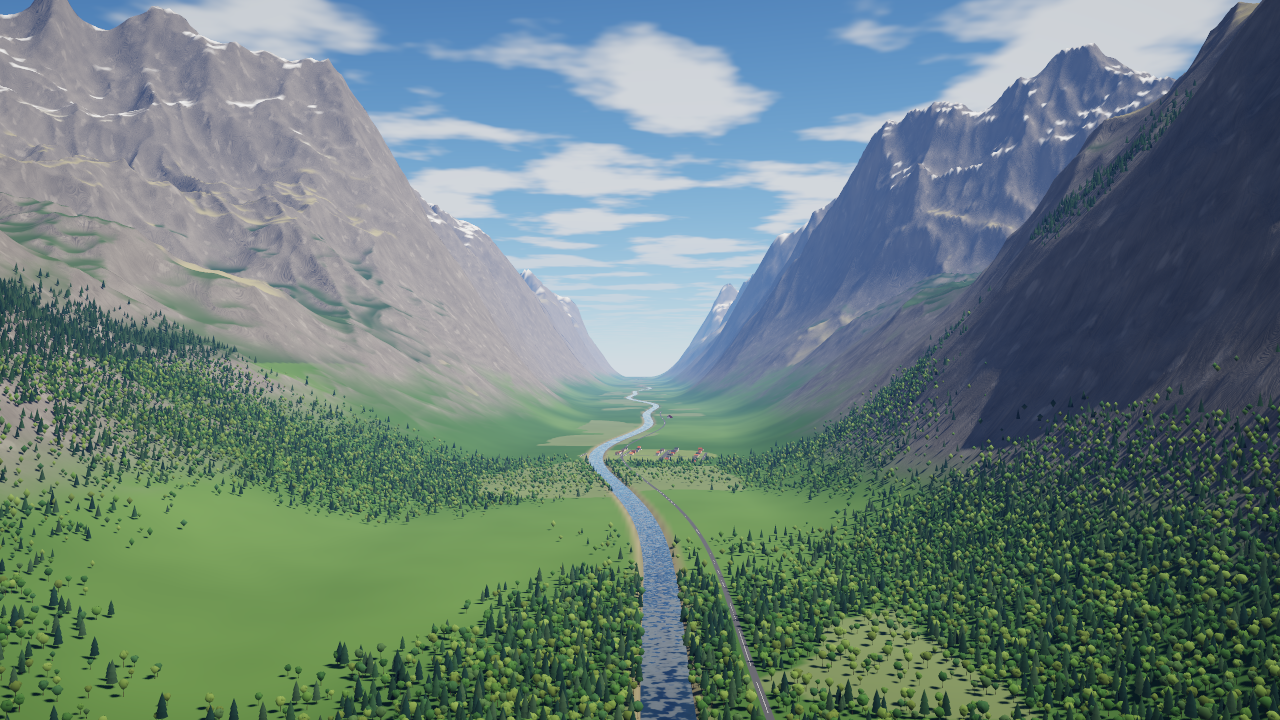
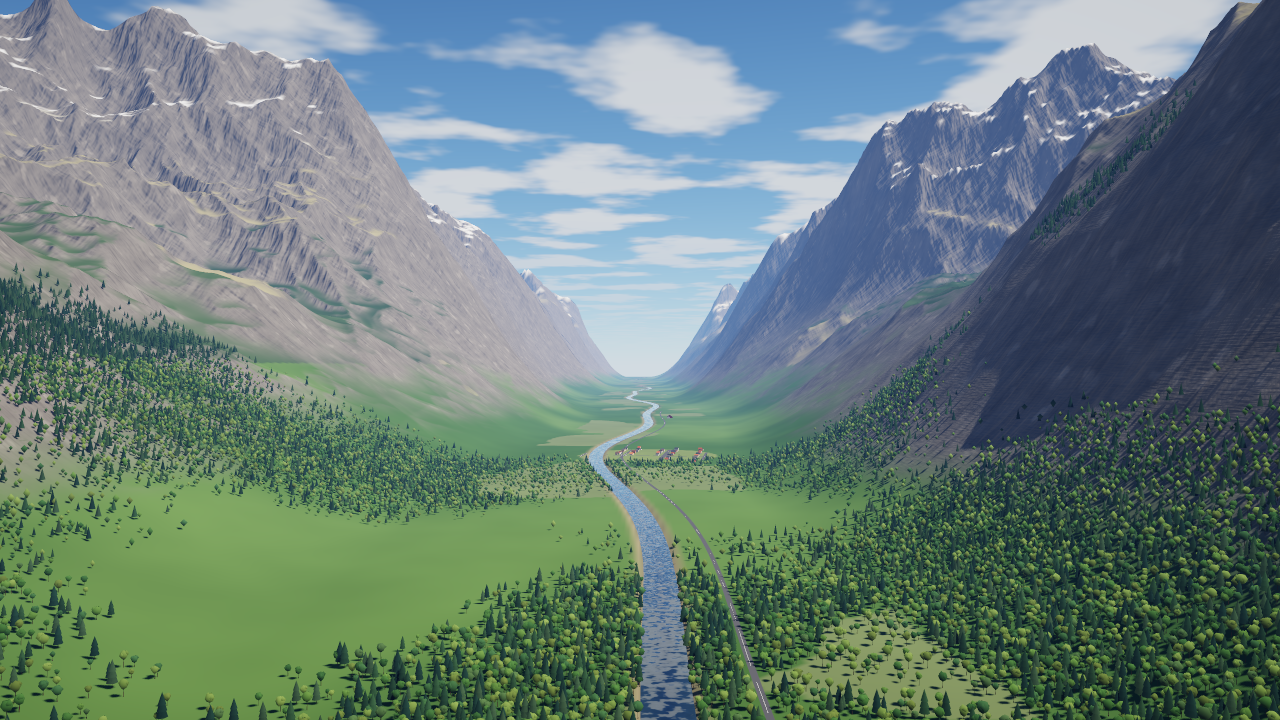
[P1.3] Row relief, triplanar rock (buttresses, streaks, ledges), fix macOS test type-check timeout
Art review round 11: 6.00 (logged). 42d95de failed CI: a Metal-only test's array literal timed out
the type checker on macOS; split into plain statements.

Claude-Session: https://claude.ai/code/session_01LuDJ4arcj2AiLQbMi9mk9u

diff --git a/Packages/SkyforgeKit/Sources/SFRender/Shaders/WorldShaders.swift b/Packages/SkyforgeKit/Sources/SFRender/Shaders/WorldShaders.swift
@@ -216,6 +216,24 @@ public enum WorldShaders {
         float k = min(1.0, max(0.0, (weight - (t - band * 0.5)) / band));
         return k * k * (3.0 - 2.0 * k);
     }
+    static float2 fieldRowTilt(float x, float y, float footprint, uint seed, bool autumn) {
+        float c = cos(0.35f), s = sin(0.35f);
+        float wu = fp_noise(x / 420.0 + 7.3, y / 420.0, seed ^ 0x51u) * 22.0;
+        float wv = fp_noise(x / 420.0, y / 420.0 - 9.1, seed ^ 0xA3u) * 22.0;
+        float u = c * x + s * y + wu, v = -s * x + c * y + wv;
+        uint h = fp_hash(int(floor(u / 110.0)), int(floor(v / 170.0)), seed);
+        uint idx = autumn ? h % 6u : h % 7u;
+        bool pasture = !autumn && (idx == 0u || idx == 5u);
+        bool ploughed = autumn ? idx == 1u : idx == 3u;
+        float spacing = pasture ? 14.0 : 3.0 + 3.0 * fp_unit(h >> 8);
+        bool alongU = ((h >> 24) & 1u) == 0u;
+        float coord = alongU ? u : v;
+        float fade = min(1.0, max(0.0, 1.0 - max(0.05, footprint) * 4.0 / spacing));
+        float strength = pasture ? 0.03 : (ploughed ? 0.20 : 0.10);
+        float slope = cos(coord / spacing * 6.2831853) * strength * fade;
+        float2 axis = alongU ? float2(c, s) : float2(-s, c);
+        return -axis * slope;
+    }
     static float3 fieldFactor(float x, float y, float footprint, uint seed, bool autumn) {
         const float PU = 110.0, PV = 170.0, HW = 1.2;
         float c = cos(0.35f), s = sin(0.35f);
@@ -359,6 +377,8 @@ public enum WorldShaders {
             if (fieldCov > 0.0) {
                 float3 f = fieldFactor(fieldW.x, fieldW.y, fieldFp, uint(u.ambientGround.w), u.skyHorizon.w > 1.5);
                 albedo *= 1.0 + (f - 1.0) * fieldCov;
+                float2 rt = fieldRowTilt(fieldW.x, fieldW.y, fieldFp, uint(u.ambientGround.w), u.skyHorizon.w > 1.5) * fieldCov;
+                n = normalize(n + float3(rt, 0.0));
             }
         }
         if (m == 7.0 && dist < (in.material == 8.0 ? 350.0 : 1400.0)) {
@@ -380,28 +400,38 @@ public enum WorldShaders {
             // Steep ground: fall-line gullies, rock tone variation, scrub and scree (as SFPreview), each
             // octave faded by pixel footprint so big slopes keep detail far away.
             float steep = smoothstep(0.9, 0.7, n.z);
-            float2 w = fieldW;      // true region metres: rotated gully coordinates must not jump at the 4 km wrap
+            float2 w = fieldW;      // true region metres (no jump at the 4 km noise wrap)
             float2 hz = n.xy; float hl = length(hz);
             float2 fall = hl > 1e-4 ? hz / hl : float2(1, 0), perp = float2(-fall.y, fall.x);
-            float along = dot(fall, w), across = dot(perp, w);
-            float gw = saturate(1.0 - fieldFp * 2.5 / 16.0) * steep;
+            // Triplanar on the vertical planes (horizontal axis × height), rotation-free (no wood-grain swirl).
+            float wz = in.rel.z + u.cameraLocal.z;
+            float ax = abs(n.x), ay = abs(n.y), asum = max(1e-3, ax + ay);
+            #define TRI(ah, bv, off, dh, dz) ((ax * groundNoise(float2((w.y + (dh)) + (off) * (ah), (wz + (dz)) * (ah) / (bv)), ah) + \
+                                              ay * groundNoise(float2((w.x + (dh)) - (off) * (ah), (wz + (dz)) * (ah) / (bv) - 7.0 * (ah)), ah)) / asum)
+            float gw = saturate(1.0 - fieldFp * 2.5 / 14.0) * steep;
             if (gw > 0.0) {
-                float g = groundNoise(float2(across, along * 0.2) + 51.0, 16.0);
-                float gp = groundNoise(float2(across + 1.5, along * 0.2) + 51.0, 16.0);
-                float dg = (gp - g) / 1.5 * 16.0;
+                float g = TRI(14.0, 70.0, 51.0, 0.0, 0.0), gp = TRI(14.0, 70.0, 51.0, 1.5, 0.0);
+                float dg = (gp - g) / 1.5 * 14.0;
                 n = normalize(n + float3(perp * (-dg * 0.35 * gw), 0.0));
                 albedo *= 1.0 - 0.28 * max(0.0, -g) * gw;
             }
+            float bw = saturate(1.0 - fieldFp * 2.5 / 45.0) * steep;
+            if (bw > 0.0) {
+                float b0 = TRI(45.0, 160.0, 91.0, 0.0, 0.0), b1 = TRI(45.0, 160.0, 91.0, 4.0, 0.0);
+                float db = (b1 - b0) / 4.0 * 45.0;
+                n = normalize(n + float3(perp * (-db * 0.45 * bw), 0.0));
+                float streak = TRI(9.0, 220.0, -41.0, 0.0, 0.0), ledge = TRI(320.0, 28.0, 13.0, 0.0, 0.0);
+                albedo *= (1.0 - 0.22 * max(0.0, streak) * bw) * (1.0 + 0.12 * max(0.0, ledge) * bw) * (1.0 - 0.10 * max(0.0, -b0) * bw);
+            }
             float cw = saturate(1.0 - fieldFp * 2.5 / 4.0) * steep;
             if (cw > 0.0) {
-                float cr = groundNoise(float2(across, along * 0.4) - 19.0, 4.0);
-                float crp = groundNoise(float2(across + 0.5, along * 0.4) - 19.0, 4.0);
-                float ld = groundNoise(float2(across * 0.14, along) + 7.0, 4.0);
-                float ldp = groundNoise(float2(across * 0.14, along + 0.5) + 7.0, 4.0);
-                float dc = (crp - cr) / 0.5 * 4.0, dl = (ldp - ld) / 0.5 * 4.0;
-                n = normalize(n + float3(perp * (-dc * 0.22 * cw) + fall * (-dl * 0.18 * cw), 0.0));
+                float cr = TRI(4.0, 10.0, -19.0, 0.0, 0.0), crp = TRI(4.0, 10.0, -19.0, 0.5, 0.0);
+                float ld = TRI(25.0, 3.5, 7.0, 0.0, 0.0), ldp = TRI(25.0, 3.5, 7.0, 0.0, 0.5);
+                float dc = (crp - cr) / 0.5 * 4.0, dl = (ldp - ld) / 0.5 * 3.5;
+                n = normalize(n + float3(perp * (-dc * 0.22 * cw) + fall * (dl * 0.18 * cw), 0.0));
                 albedo *= 1.0 - 0.12 * max(0.0, -cr) * cw;
             }
+            #undef TRI
             float big = groundNoise(w - 13.0, 64.0) * saturate(1.0 - fieldFp * 2.5 / 64.0);
             float small = groundNoise(w + 3.0, 8.0) * saturate(1.0 - fieldFp * 2.5 / 8.0);
             albedo *= 1.0 + (0.22 * big + 0.10 * small) * steep;

diff --git a/Packages/SkyforgeKit/Sources/SFPreview/PreviewRenderer.swift b/Packages/SkyforgeKit/Sources/SFPreview/PreviewRenderer.swift
@@ -104,6 +104,8 @@ public enum PreviewRenderer {
                             let footprint = dist / focal / max(0.15, abs(fdot(dir, n)))
                             let f = fpat.factor(wx, wy, footprint: footprint)
                             albedo *= SIMD3<Float>(repeating: 1) + (f - SIMD3<Float>(repeating: 1)) * fieldCov
+                            let rt = fpat.rowTilt(wx, wy, footprint: footprint) * fieldCov
+                            n = simd_normalize(n + SIMD3(rt.x, rt.y, 0))
                         }
                     }
                     if mat == Material.terrain.rawValue && dist < (imagery ? 350 : 700) {
@@ -134,29 +136,47 @@ public enum PreviewRenderer {
                         let wx = Double(p.x) + origin.x, wy = Double(p.y) + origin.y
                         let h = SIMD2<Float>(n.x, n.y), hl = (h * h).sum().squareRoot()
                         let fall = hl > 1e-4 ? h / hl : SIMD2<Float>(1, 0), perp = SIMD2<Float>(-fall.y, fall.x)
-                        let along = Double(fall.x) * wx + Double(fall.y) * wy, across = Double(perp.x) * wx + Double(perp.y) * wy
+                        // Triplanar on the two vertical planes (horizontal axis × height): rotating world
+                        // coordinates by the local fall direction swirled the pattern like wood grain, since tiny
+                        // angle changes times kilometre-scale coordinates warp it (review round 11).
+                        let wz = Double(p.z) + origin.z
+                        let ax = Double(abs(n.x)), ay = Double(abs(n.y)), asum = max(1e-3, ax + ay)
+                        func tri(_ ah: Double, _ bv: Double, _ off: Double, dh: Double = 0, dz: Double = 0, octaves: Int = 2) -> Float {
+                            let a = ax > 0.02 ? groundNoise.fbm((wy + dh) / ah + off, (wz + dz) / bv, octaves: octaves) : 0
+                            let b = ay > 0.02 ? groundNoise.fbm((wx + dh) / ah - off, (wz + dz) / bv - 7, octaves: octaves) : 0
+                            return Float((ax * a + ay * b) / asum)
+                        }
                         func w(_ cell: Float) -> Float { max(0, min(1, 1 - fpx * 2.5 / cell)) }
                         let gw = w(14) * steep
                         if gw > 0 {
-                            let e = 1.5
-                            let g = Float(groundNoise.fbm(across / 14 + 51, along / 70, octaves: 2))
-                            let gp = Float(groundNoise.fbm((across + e) / 14 + 51, along / 70, octaves: 2))
-                            let dg = (gp - g) / Float(e) * 14
+                            // Gullies: 14 m across, 70 m down the fall line.
+                            let g = tri(14, 70, 51), gp = tri(14, 70, 51, dh: 1.5)
+                            let dg = (gp - g) / 1.5 * 14
                             let tilt = perp * (-dg * 0.35 * gw)
                             n = simd_normalize(n + SIMD3(tilt.x, tilt.y, 0))
                             albedo *= 1 - 0.28 * max(0, -g) * gw            // darker gully floors (also in shade)
                         }
-                        // Fine crevices (4 m, along the fall line) and ledges (3.5 m, across it) so clean rock
-                        // faces read as rock rather than clay (review round 10).
+                        // Buttresses and couloirs (45 m across, 160 m tall), dark weathering streaks down the fall
+                        // line and pale ledge bands across it: the scale the camera sees on a far massif.
+                        let bw = w(45) * steep
+                        if bw > 0 {
+                            let b0 = tri(45, 160, 91, octaves: 3), b1 = tri(45, 160, 91, dh: 4, octaves: 3)
+                            let db = (b1 - b0) / 4 * 45
+                            let tb = perp * (-db * 0.45 * bw)
+                            n = simd_normalize(n + SIMD3(tb.x, tb.y, 0))
+                            let streak = tri(9, 220, -41), ledge = tri(320, 28, 13)
+                            let kStreak: Float = 1 - 0.22 * max(0, streak) * bw
+                            let kLedge: Float = 1 + 0.12 * max(0, ledge) * bw
+                            let kCouloir: Float = 1 - 0.10 * max(0, -b0) * bw
+                            albedo *= kStreak * kLedge * kCouloir
+                        }
+                        // Fine crevices (4 m across, 10 m tall) and ledges (25 m wide, 3.5 m tall) for close range.
                         let cw = w(4) * steep
                         if cw > 0 {
-                            let e = 0.5
-                            let cr = Float(groundNoise.fbm(across / 4 - 19, along / 10, octaves: 2))
-                            let crp = Float(groundNoise.fbm((across + e) / 4 - 19, along / 10, octaves: 2))
-                            let ld = Float(groundNoise.fbm(across / 25 + 7, along / 3.5, octaves: 2))
-                            let ldp = Float(groundNoise.fbm(across / 25 + 7, (along + e) / 3.5, octaves: 2))
-                            let dc = (crp - cr) / Float(e) * 4, dl = (ldp - ld) / Float(e) * 3.5
-                            let t2 = perp * (-dc * 0.22 * cw) + fall * (-dl * 0.18 * cw)
+                            let cr = tri(4, 10, -19), crp = tri(4, 10, -19, dh: 0.5)
+                            let ld = tri(25, 3.5, 7), ldp = tri(25, 3.5, 7, dz: 0.5)
+                            let dc = (crp - cr) / 0.5 * 4, dl = (ldp - ld) / 0.5 * 3.5
+                            let t2 = perp * (-dc * 0.22 * cw) + fall * (dl * 0.18 * cw)
                             n = simd_normalize(n + SIMD3(t2.x, t2.y, 0))
                             albedo *= 1 - 0.12 * max(0, -cr) * cw
                         }

diff --git a/Packages/SkyforgeKit/Tests/SFRenderTests/FieldPatternRenderTests.swift b/Packages/SkyforgeKit/Tests/SFRenderTests/FieldPatternRenderTests.swift
@@ -36,9 +36,16 @@ import SFQuickFlight
     func gpuFieldCoverageMatchesCPU() throws {
         let r = try WorldRenderer(lighting: .preset(.midday))
         let pattern = FieldPattern(seed: 4_242, autumn: false)
-        let pts = (0..<4_096).map { i in SIMD3<Float>(Float(i % 64) * 61 - 1_900, Float(i / 64) * 67 - 2_100, Float(i % 97) / 96) }
+        var pts = [SIMD3<Float>]()
+        for i in 0..<4_096 {
+            let x: Float = Float(i % 64) * 61 - 1_900
+            let y: Float = Float(i / 64) * 67 - 2_100
+            let w: Float = Float(i % 97) / 96
+            pts.append(SIMD3(x, y, w))
+        }
         let gpu = try r.fieldCoverage(points: pts, pattern: pattern)
-        let bad = pts.indices.filter { abs(gpu[$0] - pattern.coverage(pts[$0].x, pts[$0].y, weight: pts[$0].z)) > 0.01 }.count
+        var bad = 0
+        for (i, p) in pts.enumerated() where abs(gpu[i] - pattern.coverage(p.x, p.y, weight: p.z)) > 0.01 { bad += 1 }
         print("field coverage GPU vs CPU: \(bad)/\(pts.count) differ")
         #expect(bad <= pts.count / 200)
     }
@@ -47,10 +54,17 @@ import SFQuickFlight
     func gpuTownImpostorMatchesCPU() throws {
         let r = try WorldRenderer(lighting: .preset(.midday))
         let pattern = FieldPattern(seed: 0x00AB_CDEF, autumn: false)
-        let pts = (0..<4_096).map { i in SIMD3<Float>(Float(i % 64) * 3.7 - 120, Float(i / 64) * 4.3 - 140, [0.2, 1, 6, 20][i % 4]) }
+        let footprints: [Float] = [0.2, 1, 6, 20]
+        var pts = [SIMD3<Float>]()
+        for i in 0..<4_096 {
+            let x: Float = Float(i % 64) * 3.7 - 120
+            let y: Float = Float(i / 64) * 4.3 - 140
+            pts.append(SIMD3(x, y, footprints[i % 4]))
+        }
         let gpu = try r.fieldFactors(points: pts, pattern: pattern, town: true)
         let lawn = SIMD3<Float>(0.10, 0.12, 0.06)
-        let bad = pts.indices.filter { simd_length(gpu[$0] - pattern.town(pts[$0].x, pts[$0].y, footprint: pts[$0].z, lawn: lawn)) > 0.005 }.count
+        var bad = 0
+        for (i, p) in pts.enumerated() where simd_length(gpu[i] - pattern.town(p.x, p.y, footprint: p.z, lawn: lawn)) > 0.005 { bad += 1 }
         print("town impostor GPU vs CPU: \(bad)/\(pts.count) differ")
         #expect(bad <= pts.count / 200)
     }

diff --git a/Packages/SkyforgeKit/Sources/SFPreview/FieldPattern.swift b/Packages/SkyforgeKit/Sources/SFPreview/FieldPattern.swift
@@ -107,6 +107,28 @@ public struct FieldPattern: Sendable, Equatable {
         return SIMD2(c * u - s * v, s * u + c * v)
     }
 
+    /// Horizontal normal tilt of the crop rows at (x, y): rows are low ridges, so a low sun rakes them into
+    /// light and shadow where albedo contrast alone vanishes (review: no rows visible in (j)).
+    public func rowTilt(_ x: Float, _ y: Float, footprint: Float) -> SIMD2<Float> {
+        let c = cos(Self.angle), s = sin(Self.angle)
+        let wu = Self.noise(x / 420 + 7.3, y / 420, seed ^ 0x51) * 22
+        let wv = Self.noise(x / 420, y / 420 - 9.1, seed ^ 0xA3) * 22
+        let u = c * x + s * y + wu, v = -s * x + c * y + wv
+        let h = Self.hash(Int32((u / Self.parcelU).rounded(.down)), Int32((v / Self.parcelV).rounded(.down)), seed)
+        let count = UInt32(autumn ? Self.autumnCrops.count : Self.summer.count)
+        let idx = Int(h % count)
+        let pasture = !autumn && (idx == 0 || idx == 5)
+        let ploughed = autumn ? idx == 1 : idx == 3
+        let spacing: Float = pasture ? 14 : 3 + 3 * Self.unit(h >> 8)
+        let alongU = (h >> 24) & 1 == 0
+        let coord = alongU ? u : v
+        let fade = min(1, max(0, 1 - max(0.05, footprint) * 4 / spacing))   // relief fades earlier than colour (moiré)
+        let strength: Float = pasture ? 0.03 : (ploughed ? 0.20 : 0.10)
+        let slope = cos(coord / spacing * 6.2831853) * strength * fade
+        let axis = alongU ? SIMD2<Float>(c, s) : SIMD2<Float>(-s, c)
+        return -axis * slope
+    }
+
     /// `band` widens the switch where the weight changes quickly on screen (anti-aliasing).
     public func coverage(_ x: Float, _ y: Float, weight: Float, band: Float = 0.12) -> Float {
         let c = cos(Self.angle), s = sin(Self.angle)

diff --git a/docs/VISUAL_LOG.md b/docs/VISUAL_LOG.md
@@ -183,3 +183,11 @@ Open defects (next passes): near-field ground is flat colour (needs detail textu
 - Field edges: farming is now decided once per parcel at its centre (`FieldPattern.ParcelGrid`; on Metal an R8 texture plus a `fieldGrid` uniform). The vertex weight carries only local clips (river bank, rock, snow, sand, airfield), and their switch is anti-aliased by the screen-space weight gradient (fwidth on Metal, G-buffer neighbours on the CPU). Field areas now end on whole parcels with crisp edges; (e)'s sawtooth is gone.
 - Rows: contrast varies per field (5–12 %), pasture mowing stripes are at 6 %, and the generic ground mottle is calmed by 70 % under fields.
 - Rock: fine crevices (4 m, along the fall line) and ledges (3.5 m, across it) as normal detail on steep faces, faded by footprint (CPU and Metal).
+
+### 2026-11-08 Art-director re-review (round 11) and fixes
+- a 5.83, d 6.00, e 6.17, f 6.17, j 5.83 → **6.00** (was 5.93). Whole-parcel farming landed: crisp continuous edges in (d) and (e).
+- Not visible: rows in (j) under the low sun (albedo contrast vanishes) and the 4 m rock detail in (f) (sub-pixel at that range).
+- Rows as relief: `FieldPattern.rowTilt` tilts the normal across each row (ploughed 0.20, crops 0.10, pasture 0.03), faded earlier than the colour so it never moirés. The low sun now rakes the rows in (j). Mirrored on Metal.
+- Rock at visible scale: buttresses and couloirs (45 × 160 m), dark fall-line streaks and pale ledge bands.
+- Swirl fix: all steep-ground noise is now triplanar on the vertical planes (horizontal axis × world height). Rotating world coordinates by the local fall direction had produced a wood-grain swirl, because tiny angle changes times kilometre-scale coordinates warp the pattern. Mirrored on Metal.
+- CI: 42d95de failed to compile a Metal-only test on macOS (type-checker timeout in an array literal); split into simple statements.

diff --git a/docs/STATE.md b/docs/STATE.md
@@ -1,9 +1,9 @@
-LAST_UPDATE: 2026-11-08T16:58:31Z
+LAST_UPDATE: 2026-11-08T17:12:21Z
 
 # SKYFORGE state
 
 ## Phase
-P0 accepted (CI fully green). P1 in progress: P1.1, P1.2, P1.2b-2, P1.4, P1.7b, P1.8b, P1.9, P1.10, P1.12, P1.5, P1.6a, P1.2b-1, P1.6b, P1.7, P1.8a, P1.11 done; P1.3 renderer done with visuals below target (independent art review 5.93/10 vs commercial sims after 10 rounds; open: per-pixel land cover, tree crowns, impostors).
+P0 accepted (CI fully green). P1 in progress: P1.1, P1.2, P1.2b-2, P1.4, P1.7b, P1.8b, P1.9, P1.10, P1.12, P1.5, P1.6a, P1.2b-1, P1.6b, P1.7, P1.8a, P1.11 done; P1.3 renderer done with visuals below target (independent art review 6.00/10 vs commercial sims after 11 rounds; open: per-pixel land cover, tree crowns, impostors).
 
 ## Environment facts (recorded at session start)
 - Host: Linux x86_64, Ubuntu 24.04.5 LTS, 4 CPUs, 15 GB RAM (Claude Code on the web sandbox).

diff --git a/docs/VERIFICATION_LOG.md b/docs/VERIFICATION_LOG.md
@@ -106,3 +106,4 @@ Every gate run, CI run and manual verification. Newest at the bottom.
 - 2026-11-08T16:25:34Z gate fast on Linux x86_64: PASS (HEAD d6cc313)
 - 2026-11-08T16:34:53Z gate fast on Linux x86_64: PASS (HEAD 4876bc2)
 - 2026-11-08T16:59:48Z gate fast on Linux x86_64: PASS (HEAD 7ba1a62)
+- 2026-11-08T17:13:48Z gate fast on Linux x86_64: PASS (HEAD 42d95de)
